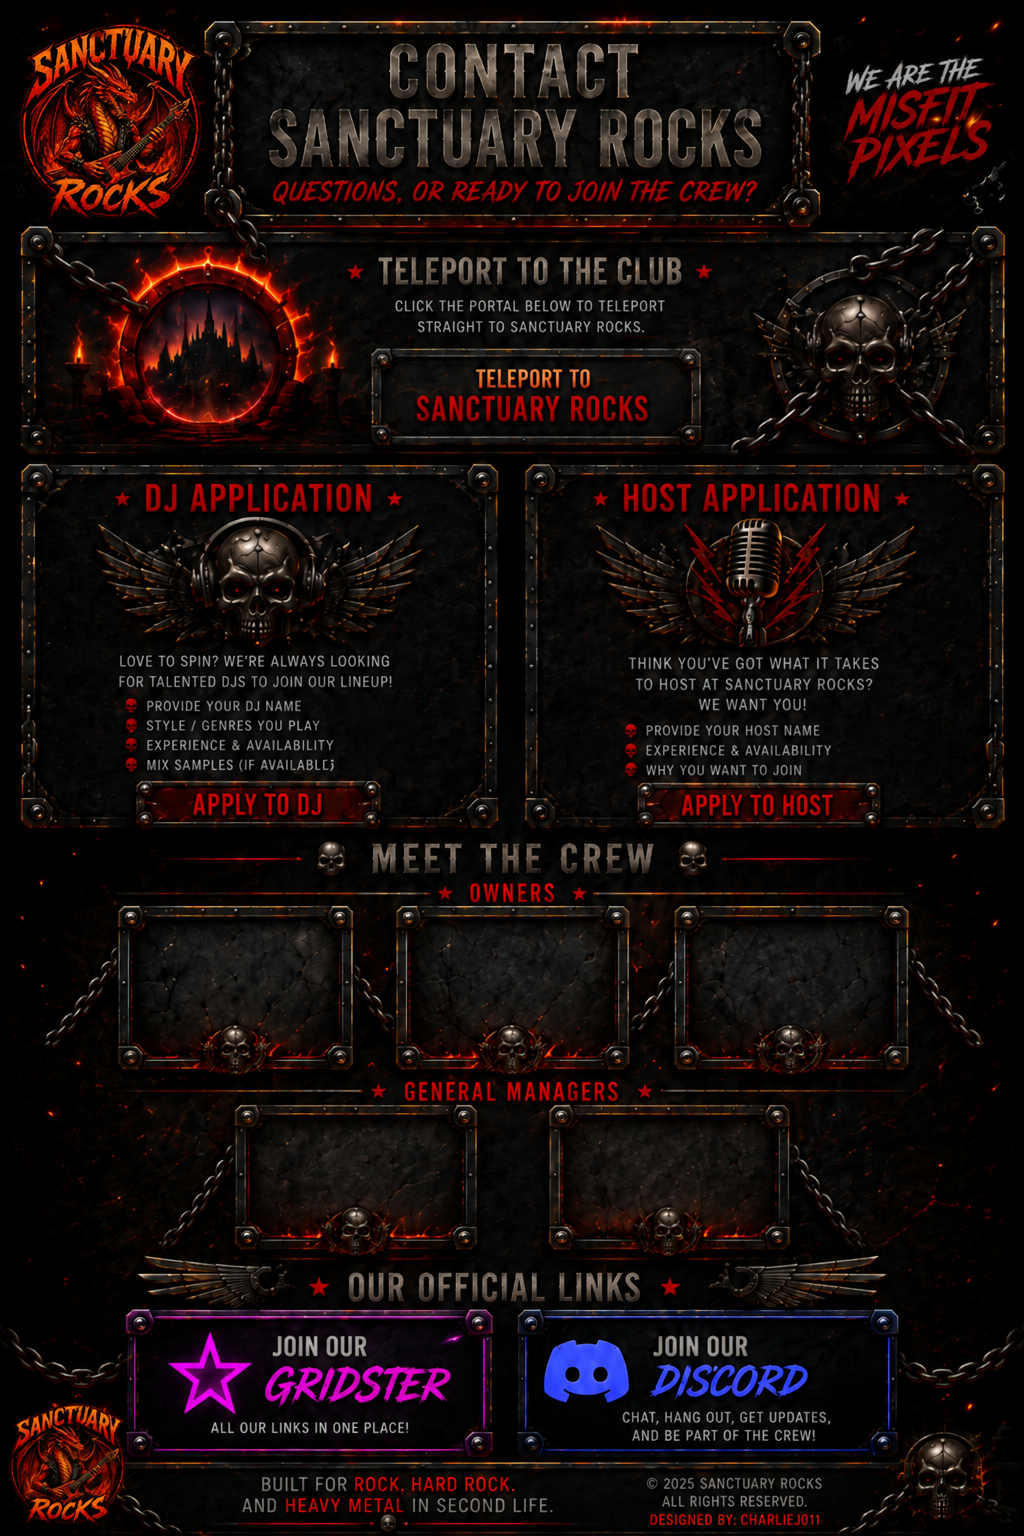
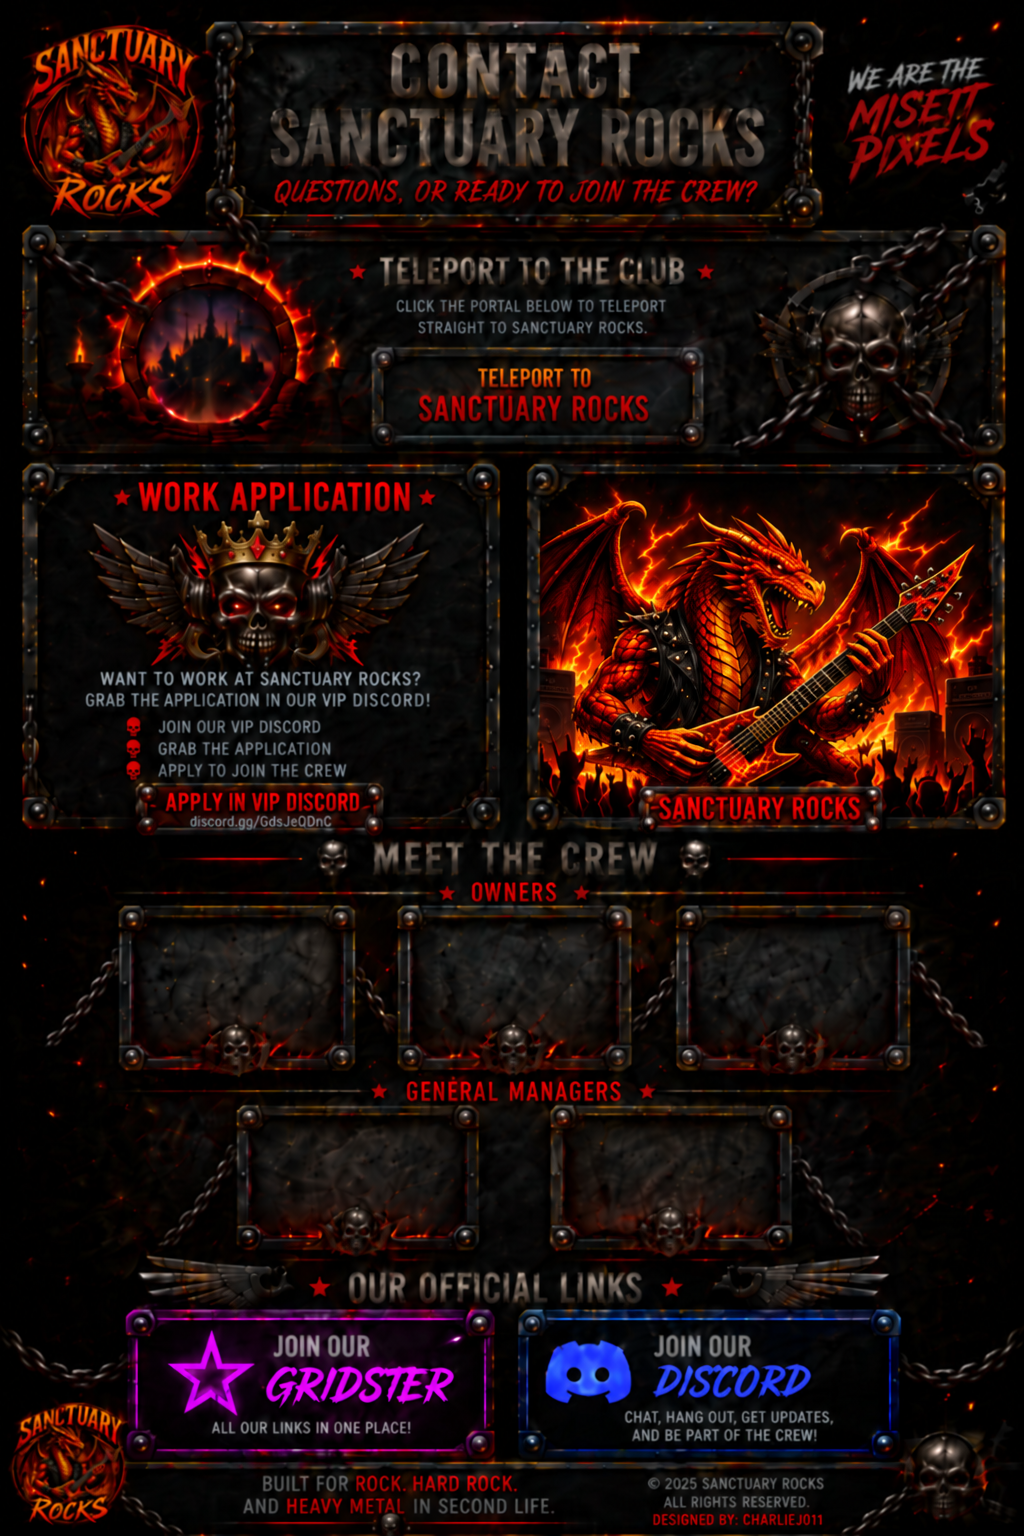
Update contact page artwork and VIP application link

diff --git a/app/contact/page.tsx b/app/contact/page.tsx
@@ -9,9 +9,7 @@ export const dynamic = "force-dynamic";
 const TELEPORT_URL = "http://maps.secondlife.com/secondlife/Rhage/160/106/24";
 const GRIDSTER_URL = "https://gridster.elfavina89.workers.dev";
 const DISCORD_URL = "https://discord.gg/239QyWDW4";
-const DJ_APPLICATION_URL =
-  "https://docs.google.com/forms/d/e/1FAIpQLSf9Rgq2ulADGGgFUFG0ZUit3TxNgC5JtTQAQxbcOGo3jBJDHA/viewform";
-const HOST_APPLICATION_URL = DJ_APPLICATION_URL;
+const VIP_APPLICATION_URL = "https://discord.gg/GdsJeQDnc";
 
 type Box = { left: number; top: number; width: number; height: number };
 
@@ -85,23 +83,13 @@ export default function ContactPage() {
         className="contact-hotspot"
         style={{ left: "36%", top: "23.2%", width: "31.5%", height: "5%" }}
       />
-
       <a
-        href={DJ_APPLICATION_URL}
+        href={VIP_APPLICATION_URL}
         target="_blank"
         rel="noopener noreferrer"
-        aria-label="Apply to become a Sanctuary Rocks DJ"
+        aria-label="Apply to work at Sanctuary Rocks through the VIP Discord"
         className="contact-hotspot"
-        style={{ left: "14%", top: "51.4%", width: "21%", height: "2.6%" }}
-      />
-
-      <a
-        href={HOST_APPLICATION_URL}
-        target="_blank"
-        rel="noopener noreferrer"
-        aria-label="Apply to become a Sanctuary Rocks host"
-        className="contact-hotspot"
-        style={{ left: "62.5%", top: "51.4%", width: "22%", height: "2.6%" }}
+        style={{ left: "14%", top: "51.4%", width: "34%", height: "4%" }}
       />      <a
         href={GRIDSTER_URL}
         target="_blank"
@@ -123,6 +111,7 @@ export default function ContactPage() {
     </main>
   );
 }
+
 
 
 
